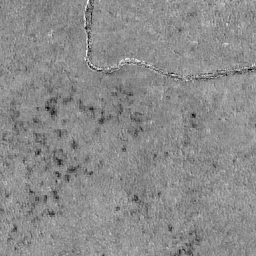
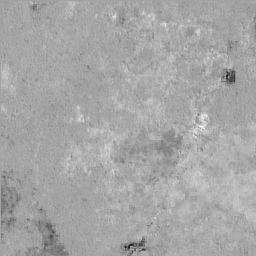
Clean repository history

diff --git a/src/change_based_processor.py b/src/change_based_processor.py
@@ -13,7 +13,7 @@ from band_names import canonicalize_band_names, legacy_to_canonical
 
 
 def inspect_processed_sample(
-    metadata_file="data/processed/metadata.pkl",
+    metadata_file,
     sample_index=0,
     output_dir="debug/channels",
 ):
@@ -21,12 +21,14 @@ def inspect_processed_sample(
 
     os.makedirs(output_dir, exist_ok=True)
 
+    base_dir = os.path.dirname(metadata_file)
+
     with open(metadata_file, "rb") as f:
         metadata = pickle.load(f)
 
     item = metadata[sample_index]
-    image = np.load(f"data/processed/{item['chip_path']}")
-    mask = np.load(f"data/processed/{item['mask_path']}")
+    image = np.load(os.path.join(base_dir, item["chip_path"]))
+    mask = np.load(os.path.join(base_dir, item["mask_path"]))
     band_names = item["band_names"]
 
     print(f"Chip id: {item['chip_id']}")
@@ -141,20 +143,29 @@ def create_deforestation_labels_from_change(
         return np.zeros((chip_data.shape[1], chip_data.shape[2]), dtype=np.float32)
 
 
-def process_tfrecords_with_change_labels():
-    """Process TFRecords using change-based deforestation labels."""
+def process_tfrecords_with_change_labels(input_glob, output_dir):
+    """Process TFRecords using change-based deforestation labels.
+
+    Args:
+        input_glob: Explicit glob pattern for input TFRecords, e.g.
+            "data/raw/gee_canary_gfc_v1/*.tfrecord". No default is provided
+            on purpose - callers must not accidentally sweep in every
+            TFRecord under data/.
+        output_dir: Directory to write chips/, masks/, and metadata.pkl to,
+            e.g. "data/processed/gee_canary_gfc_v1".
+    """
 
     print("=== Change-Based Deforestation Processor ===\n")
 
-    # Find TFRecord files
-    tfrecord_files = list(Path("data").glob("*.tfrecord"))
+    # Find TFRecord files matching the explicit input glob only
+    tfrecord_files = sorted(Path().glob(input_glob))
     print(f"Found {len(tfrecord_files)} files:")
     for f in tfrecord_files:
         print(f"  {f.name}")
 
     # Create output directories
-    os.makedirs("data/processed/chips", exist_ok=True)
-    os.makedirs("data/processed/masks", exist_ok=True)
+    os.makedirs(f"{output_dir}/chips", exist_ok=True)
+    os.makedirs(f"{output_dir}/masks", exist_ok=True)
 
     all_metadata = []
     chip_count = 0
@@ -265,8 +276,8 @@ def process_tfrecords_with_change_labels():
 
                     # Save chip and mask
                     chip_id = f"chip_{chip_count:05d}"
-                    chip_path = f"data/processed/chips/{chip_id}.npy"
-                    mask_path = f"data/processed/masks/{chip_id}.npy"
+                    chip_path = f"{output_dir}/chips/{chip_id}.npy"
+                    mask_path = f"{output_dir}/masks/{chip_id}.npy"
 
                     np.save(chip_path, chip.astype(np.float32))
                     np.save(mask_path, mask.astype(np.float32))
@@ -324,7 +335,7 @@ def process_tfrecords_with_change_labels():
         print(f"Extracted {file_count} chips from {tfrecord_file.name}")
 
     # Save metadata
-    metadata_path = "data/processed/metadata.pkl"
+    metadata_path = f"{output_dir}/metadata.pkl"
     with open(metadata_path, "wb") as f:
         pickle.dump(all_metadata, f)
 
@@ -357,8 +368,8 @@ def process_tfrecords_with_change_labels():
 
     print(f"\nFiles saved:")
     print(f"  Metadata: {metadata_path}")
-    print(f"  Chips: data/processed/chips/ ({chip_count} files)")
-    print(f"  Masks: data/processed/masks/ ({chip_count} files)")
+    print(f"  Chips: {output_dir}/chips/ ({chip_count} files)")
+    print(f"  Masks: {output_dir}/masks/ ({chip_count} files)")
 
     if chip_count > 0 and n_with_defor > 0:
         print("\nProcessing successful with deforestation detected!")
@@ -388,9 +399,11 @@ def compute_normalization_stats_final(metadata_file, n_samples=100):
 
     print(f"Using {sample_size} chips for statistics...")
 
+    base_dir = os.path.dirname(metadata_file)
+
     all_chips = []
     for idx in sample_indices:
-        chip_path = f"data/processed/{metadata[idx]['chip_path']}"
+        chip_path = os.path.join(base_dir, metadata[idx]["chip_path"])
         chip = np.load(chip_path)
         all_chips.append(chip)
 
@@ -420,7 +433,7 @@ def compute_normalization_stats_final(metadata_file, n_samples=100):
     }
 
     # Save statistics
-    stats_path = "data/processed/normalization_stats.pkl"
+    stats_path = os.path.join(base_dir, "normalization_stats.pkl")
     with open(stats_path, "wb") as f:
         pickle.dump(stats, f)
 
@@ -455,7 +468,7 @@ def load_raw_feature_arrays(example, target_size):
 
 
 def confirm_one_chip_against_raw(
-    metadata_file="data/processed/metadata.pkl",
+    metadata_file,
     sample_index=0,
     channel_pairs=[
         ("B4_post", "B4_post"),   # visible
@@ -478,11 +491,13 @@ def confirm_one_chip_against_raw(
 
     os.makedirs(output_dir, exist_ok=True)
 
+    base_dir = os.path.dirname(metadata_file)
+
     with open(metadata_file, "rb") as f:
         metadata = pickle.load(f)
 
     item = metadata[sample_index]
-    image = np.load(f"data/processed/{item['chip_path']}")
+    image = np.load(os.path.join(base_dir, item["chip_path"]))
     band_names = item["band_names"]
     target_size = image.shape[1:]
 
@@ -514,7 +529,7 @@ def confirm_one_chip_against_raw(
 
     print("\n=== RAW TO PROCESSED CHANNEL CONFIRMATION ===")
     print(f"Chip id: {item['chip_id']}")
-    print(f"Processed chip path: data/processed/{item['chip_path']}")
+    print(f"Processed chip path: {os.path.join(base_dir, item['chip_path'])}")
     print(f"Raw TFRecord: {raw_tfrecord_path}")
     print(f"Raw record index: {raw_record_index}")
     print("\nProcessed band order:")
@@ -586,6 +601,25 @@ def confirm_one_chip_against_raw(
 
 
 if __name__ == "__main__":
+    import argparse
+
+    parser = argparse.ArgumentParser(
+        description="Change-based deforestation TFRecord processor"
+    )
+    parser.add_argument(
+        "--input-glob",
+        required=True,
+        help="Explicit glob for input TFRecords, e.g. "
+        "data/raw/gee_canary_gfc_v1/*.tfrecord",
+    )
+    parser.add_argument(
+        "--output-dir",
+        required=True,
+        help="Directory to write chips/, masks/, and metadata.pkl to, e.g. "
+        "data/processed/gee_canary_gfc_v1",
+    )
+    args = parser.parse_args()
+
     # Install scipy if needed
     try:
         from scipy import ndimage
@@ -597,16 +631,18 @@ if __name__ == "__main__":
         from scipy import ndimage
 
     # Process TFRecords
-    metadata = process_tfrecords_with_change_labels()
+    metadata = process_tfrecords_with_change_labels(args.input_glob, args.output_dir)
 
     if metadata:
-        # Inspect processed sample
-        inspect_processed_sample("data/processed/metadata.pkl", sample_index=0)
+        metadata_path = f"{args.output_dir}/metadata.pkl"
 
-        confirm_one_chip_against_raw("data/processed/metadata.pkl", sample_index=0)
+        # Inspect processed sample
+        inspect_processed_sample(metadata_path, sample_index=0)
+
+        confirm_one_chip_against_raw(metadata_path, sample_index=0)
 
         # Compute normalization stats
-        stats = compute_normalization_stats_final("data/processed/metadata.pkl")
+        stats = compute_normalization_stats_final(metadata_path)
 
         print(f"\nData processing complete")
         print("\nNext steps:")
